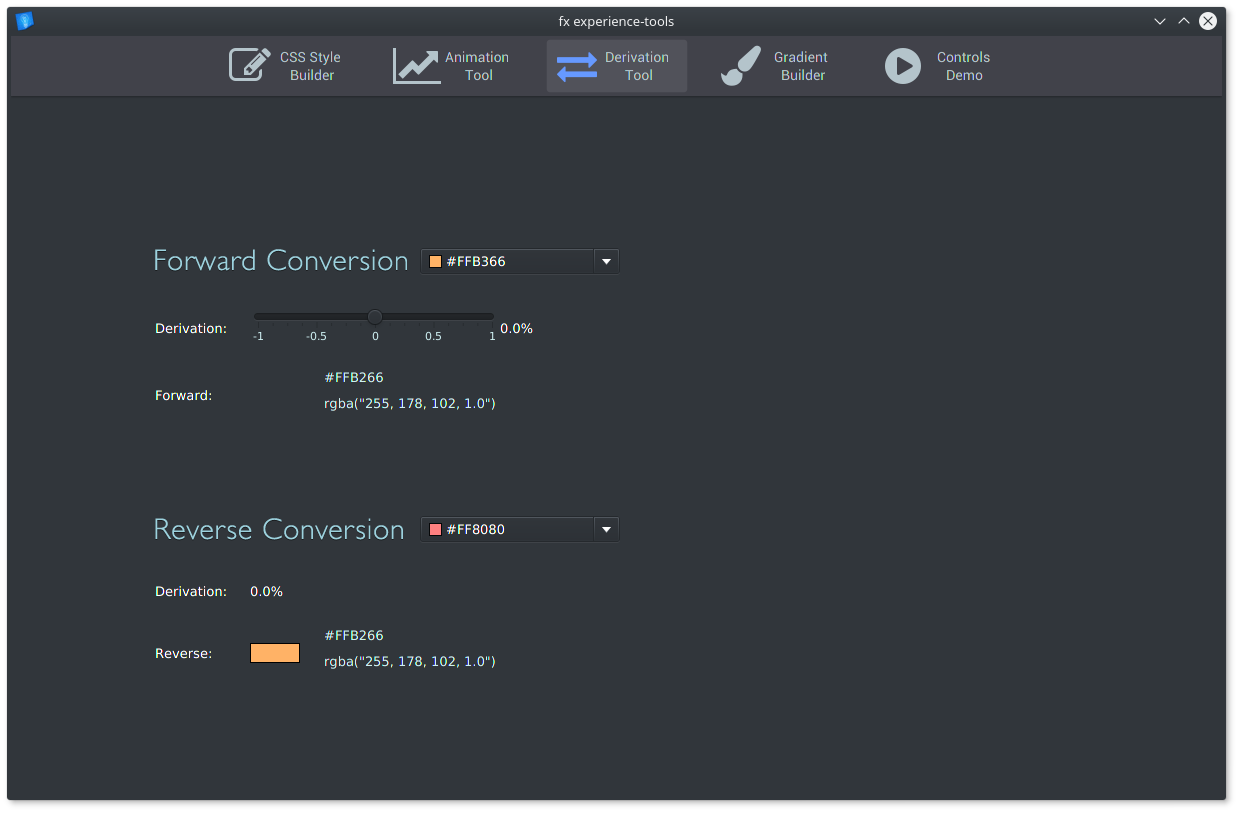
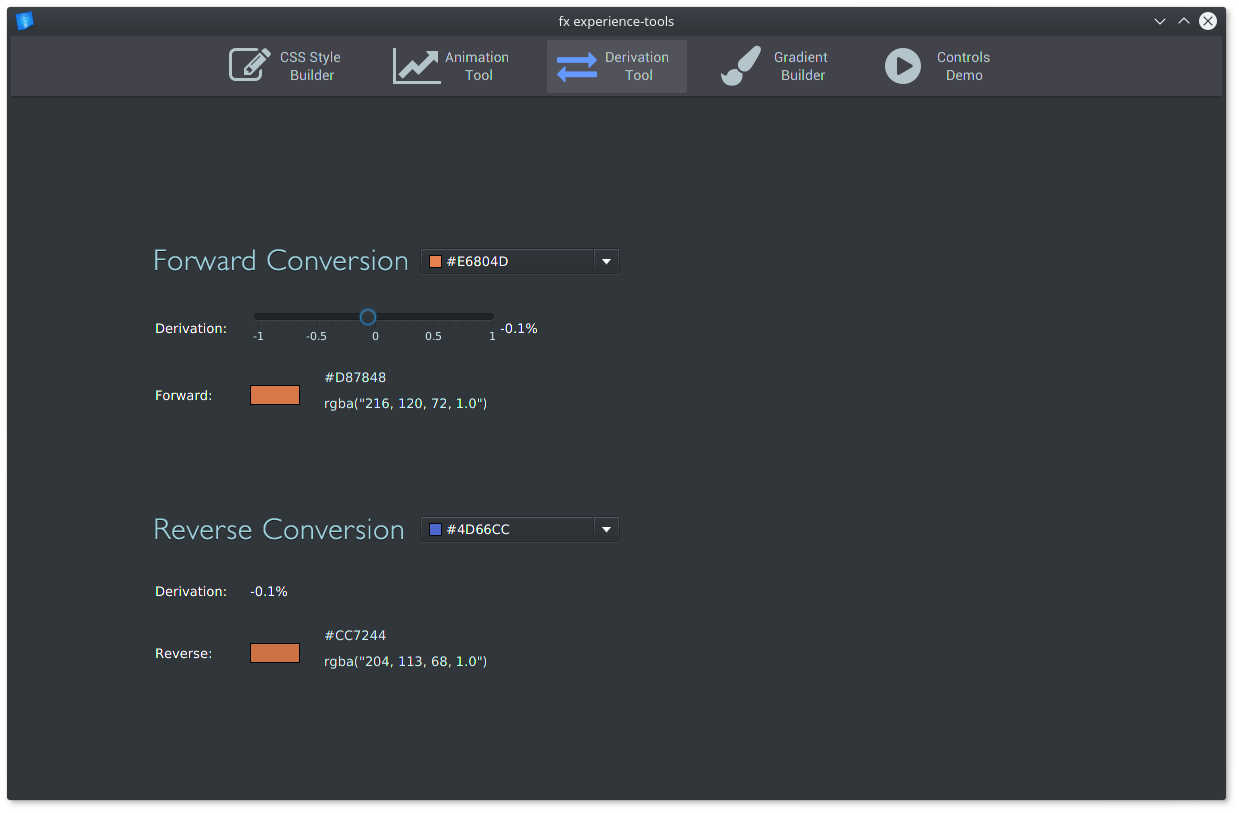
minor: fix derivation conversion / style formatting

diff --git a/fxtools/src/main/resources/styles/stylecontroller.css b/fxtools/src/main/resources/styles/stylecontroller.css
@@ -17,7 +17,17 @@ and open the template in the editor.
     -fx-text-fill: #CCC;
     -fx-font-size: 13px;
 }
+.color-picker {
+    -fx-background-color: transparent; 
+}
+.color-picker .arrow-button  {
+    -fx-opacity: 0.0;
+    -fx-cursor: text;
+}
 
+.color-picker .color-picker-label .text {
+    -fx-fill: #ccc;
+}
 .row-label {
     -fx-font-size: 13px;
     -fx-font-family: OpenSans-Regular;

diff --git a/fxtools/src/main/java/com/fxexperience/tools/controller/DerivationController.java b/fxtools/src/main/java/com/fxexperience/tools/controller/DerivationController.java
@@ -83,8 +83,8 @@ public class DerivationController extends AnchorPane {
         GridPane.setConstraints(desiredPicker, 4, 5);
         gridPane.getChildren().addAll(basePicker, desiredPicker);
         
-//        updateForwardDerivation();
-//        updateReverseDerivation();
+        updateForwardDerivation();
+        updateReverseDerivation();
     }
 
      private void updateForwardDerivation() {
@@ -92,8 +92,8 @@ public class DerivationController extends AnchorPane {
 
         Color forwardColorResult = ColorEncoder.deriveColor((Color) basePicker.getValue(), brightness);
 
-//        forwardRegion.setStyle("-fx-border-color: black; "
-//                 + "-fx-background-color: "+ ColorEncoder.getWebColor(forwardColorResult) +";");
+        forwardRegion.setStyle("-fx-border-color: black; "
+                 + "-fx-background-color: "+ ColorEncoder.getWebColor(forwardColorResult) +";");
 
         forwardSliderLabel.setText(String.format("%3.1f%%", brightness));
         hexDerivedTextfield.setText(ColorEncoder.encodeColor(forwardColorResult).toUpperCase());

diff --git a/fxtools/src/main/java/com/fxexperience/tools/app/MainApp.java b/fxtools/src/main/java/com/fxexperience/tools/app/MainApp.java
@@ -30,7 +30,7 @@ public class MainApp extends Application {
         Font.loadFont(MainApp.class.getResource("/fonts/FiraCode-Regular.ttf").toExternalForm(), 10);
         
         new AppViewHandler(stage, ResourceBundle.getBundle(
-                RESOURCE_BUNDLE, Locale.getDefault())).launchMainWindow();
+                    RESOURCE_BUNDLE, Locale.getDefault())).launchMainWindow();
     }
 
     /* @param args the command line arguments */
